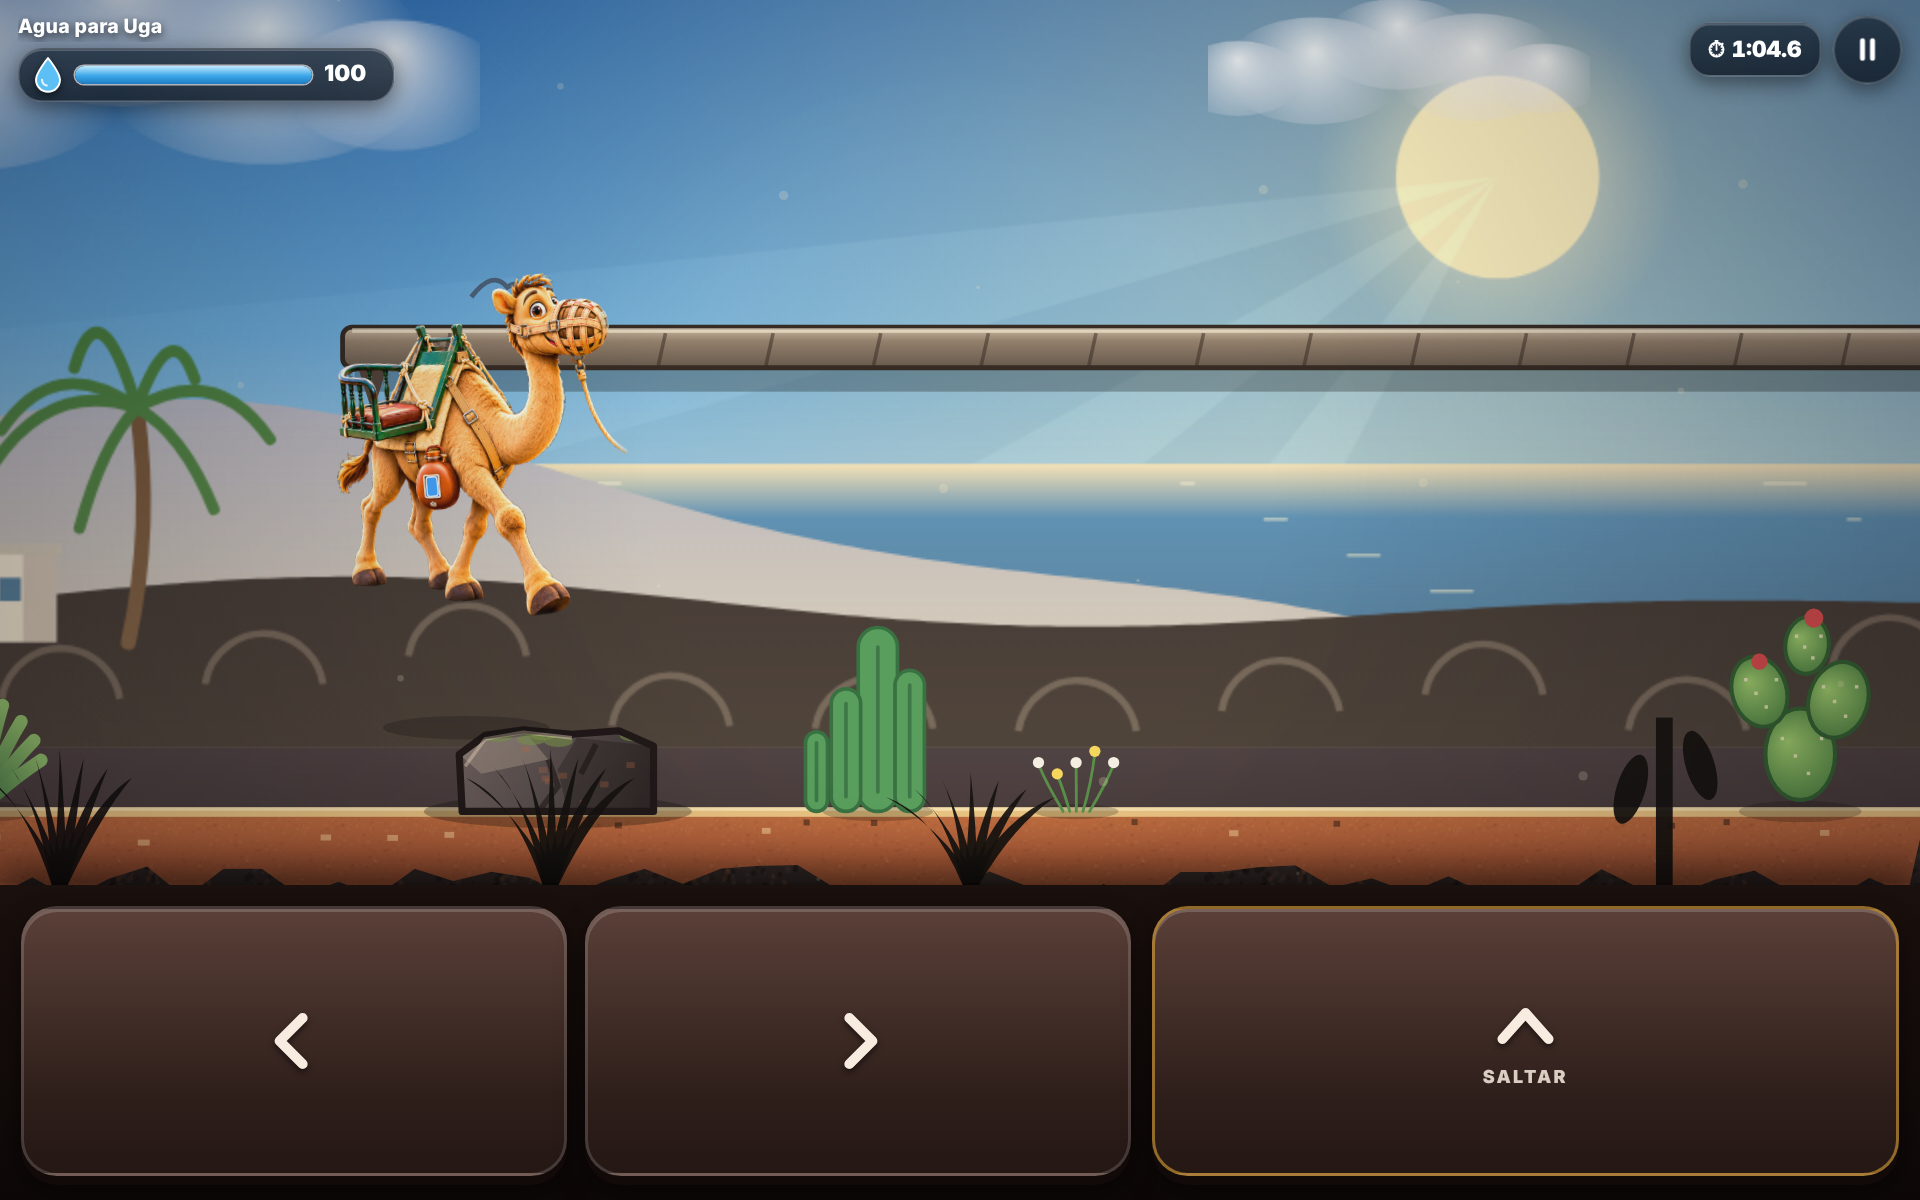
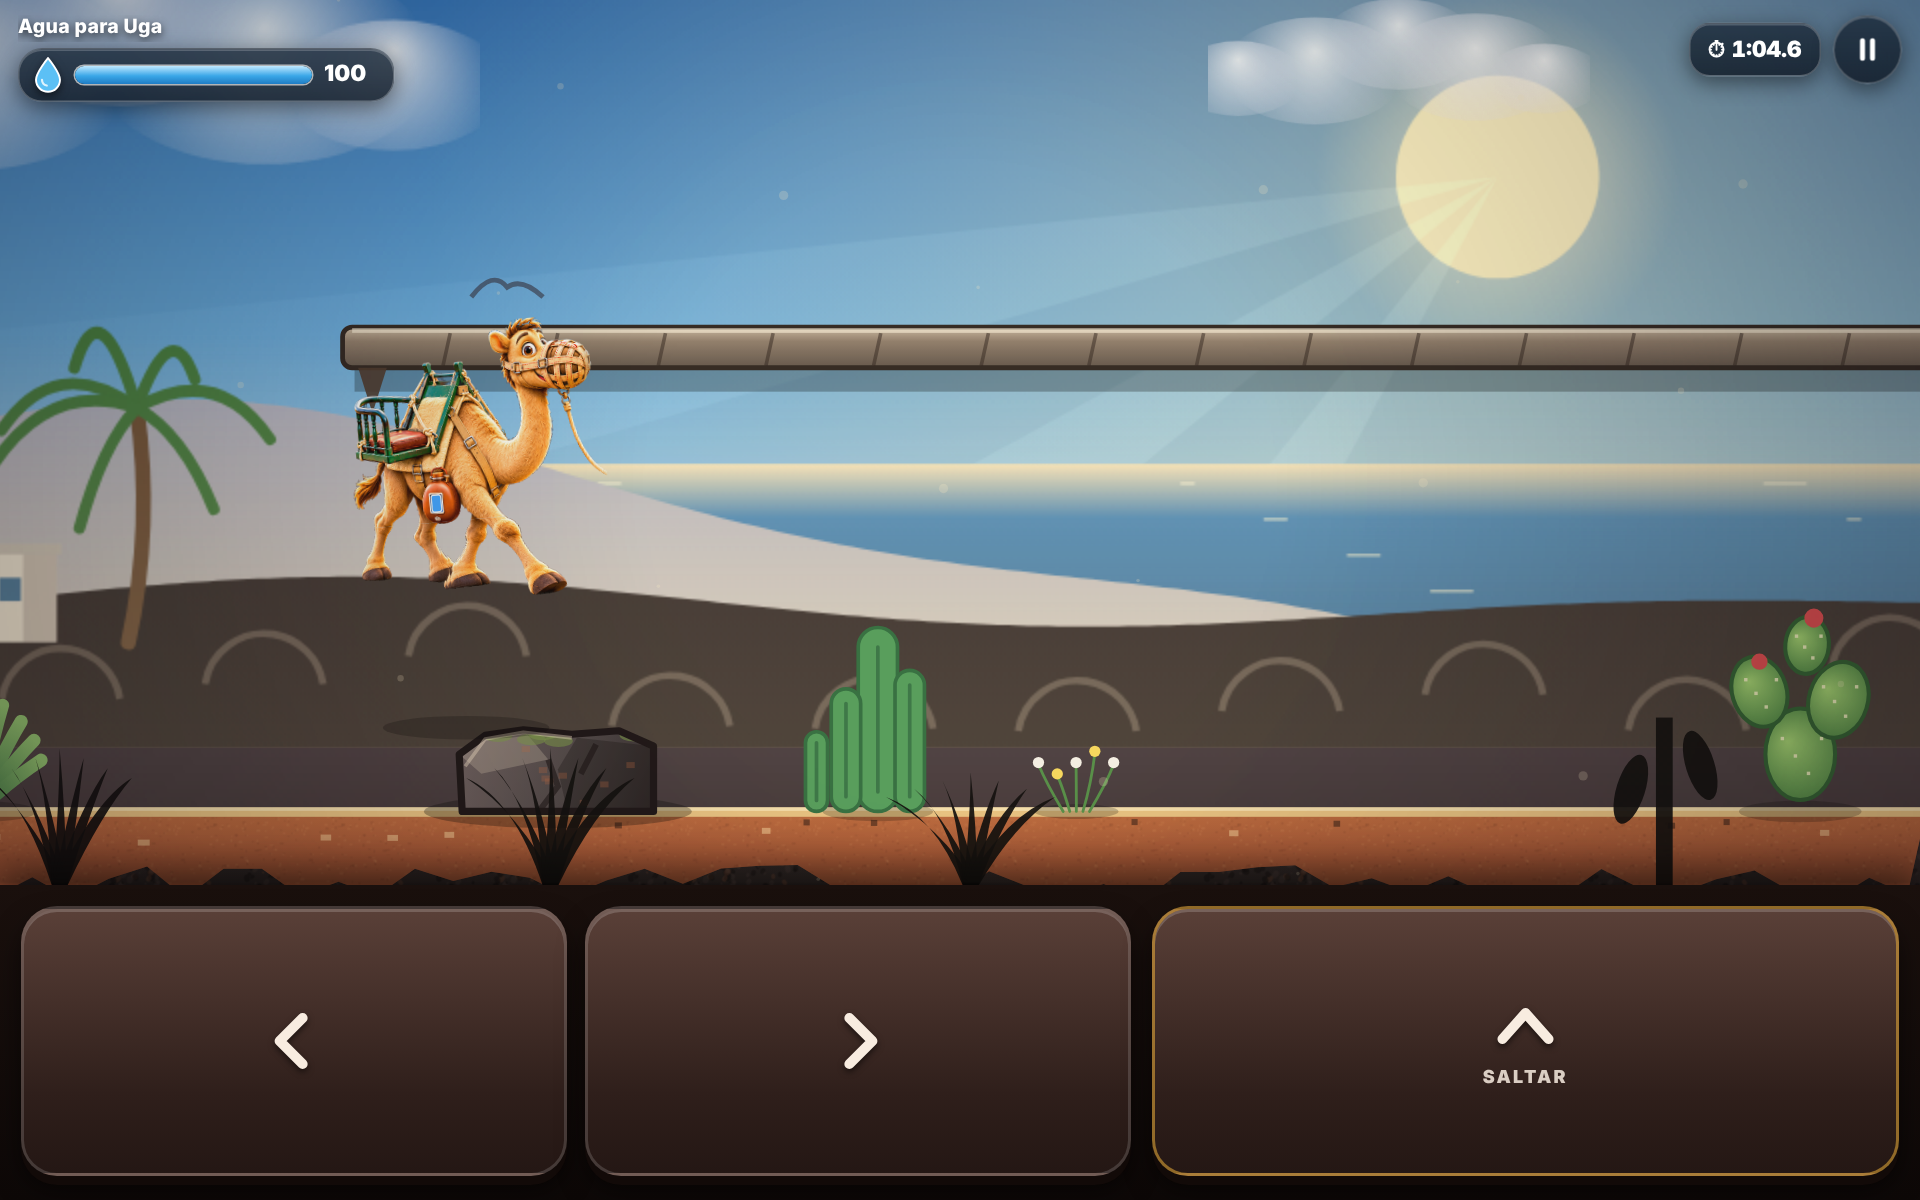
1.9.0: las patas de Martín se mueven al caminar, saltar y caer; tamaño más contenido
Claude-Session: https://claude.ai/code/session_01H2Jf8v1MHtV6zTpVoU4WWj

Changed region(s): [[0.1562, 0.2158, 0.3125, 0.5242]]

diff --git a/docs/app/dibujo.js b/docs/app/dibujo.js
@@ -163,7 +163,7 @@
   }
 
   /* Martín a partir de la ilustración (camello.png, 551×560, mirando a la derecha). Si aún no ha cargado, se usa el dibujo vectorial. */
-  const SPR = { img: null, ok: false, cache: {}, ax: 232, ay: 553, alto: 2.75, win: [184, 315, 19, 32] };
+  const SPR = { img: null, ok: false, cache: {}, ax: 232, ay: 553, alto: 2.4, win: [184, 315, 19, 32], cad: 366, cx0: 172, cx1: 236 };
   if (typeof Image !== 'undefined') { SPR.img = new Image(); SPR.img.onload = () => { SPR.ok = true; }; SPR.img.src = 'camello.png'; }
   function sprEscalado(hp) {
     const k = Math.max(16, Math.round(hp)); if (SPR.cache[k]) return SPR.cache[k];
@@ -189,7 +189,20 @@
     ctx.save(); ctx.globalAlpha = st.alpha == null ? 1 : st.alpha;
     ctx.translate(px, py + dy); if (st.dir < 0) ctx.scale(-1, 1);
     ctx.rotate(rot); ctx.scale(sx, sy);
-    ctx.drawImage(cv, -SPR.ax * s, -SPR.ay * s, cv.width, cv.height);
+    // cuerpo fijo y patas animadas: la franja de las patas se dibuja en columnas que se inclinan desde la cadera
+    const ox = -SPR.ax * s, oy = -SPR.ay * s, y0 = Math.round(SPR.cad * s), bh = cv.height - y0;
+    let Ah = 0, Af = 0, Lh = 0, Lf = 0;
+    if (anim === 'corre' || anim === 'gana') { const q = anim === 'gana' ? T * 9 : ph; Ah = Math.sin(q) * 30; Af = -Math.sin(q) * 34; Lh = Math.max(0, Math.cos(q)) * 0.12; Lf = Math.max(0, -Math.cos(q)) * 0.14; }
+    else if (anim === 'salta') { Ah = -14; Af = 26; Lh = 0.16; Lf = 0.2; }
+    else if (anim === 'cae') { Ah = -18; Af = 16; }
+    ctx.drawImage(cv, 0, 0, cv.width, y0, ox, oy, cv.width, y0);
+    const N = 60, cw = cv.width / N;
+    for (let i = 0; i < N; i++) {
+      const x0 = i * cw, xm = (x0 + cw / 2) / s, w = clamp((xm - SPR.cx0) / (SPR.cx1 - SPR.cx0), 0, 1), k = w * w * (3 - 2 * w);
+      const A = (Ah + (Af - Ah) * k) * s, Lz = Lh + (Lf - Lh) * k, e = (k > 0 && k < 1) ? cw * 1.6 : 0.8;
+      ctx.save(); ctx.translate(ox + x0, oy + y0); ctx.transform(1, 0, A / bh, 1 - Lz, 0, 0);
+      ctx.drawImage(cv, x0, y0, Math.min(cw + e, cv.width - x0), bh, 0, 0, Math.min(cw + e, cv.width - x0), bh); ctx.restore();
+    }
     // nivel de agua en la ventana de la cantimplora
     const [wx, wy, ww, wh] = SPR.win, X = (wx - SPR.ax) * s, Y = (wy - SPR.ay) * s, W = ww * s, H = wh * s, r = Math.min(W, H) * 0.25;
     ctx.fillStyle = '#0d2233'; rr(ctx, X, Y, W, H, r); ctx.fill();

diff --git a/www/dibujo.js b/www/dibujo.js
@@ -163,7 +163,7 @@
   }
 
   /* Martín a partir de la ilustración (camello.png, 551×560, mirando a la derecha). Si aún no ha cargado, se usa el dibujo vectorial. */
-  const SPR = { img: null, ok: false, cache: {}, ax: 232, ay: 553, alto: 2.75, win: [184, 315, 19, 32] };
+  const SPR = { img: null, ok: false, cache: {}, ax: 232, ay: 553, alto: 2.4, win: [184, 315, 19, 32], cad: 366, cx0: 172, cx1: 236 };
   if (typeof Image !== 'undefined') { SPR.img = new Image(); SPR.img.onload = () => { SPR.ok = true; }; SPR.img.src = 'camello.png'; }
   function sprEscalado(hp) {
     const k = Math.max(16, Math.round(hp)); if (SPR.cache[k]) return SPR.cache[k];
@@ -189,7 +189,20 @@
     ctx.save(); ctx.globalAlpha = st.alpha == null ? 1 : st.alpha;
     ctx.translate(px, py + dy); if (st.dir < 0) ctx.scale(-1, 1);
     ctx.rotate(rot); ctx.scale(sx, sy);
-    ctx.drawImage(cv, -SPR.ax * s, -SPR.ay * s, cv.width, cv.height);
+    // cuerpo fijo y patas animadas: la franja de las patas se dibuja en columnas que se inclinan desde la cadera
+    const ox = -SPR.ax * s, oy = -SPR.ay * s, y0 = Math.round(SPR.cad * s), bh = cv.height - y0;
+    let Ah = 0, Af = 0, Lh = 0, Lf = 0;
+    if (anim === 'corre' || anim === 'gana') { const q = anim === 'gana' ? T * 9 : ph; Ah = Math.sin(q) * 30; Af = -Math.sin(q) * 34; Lh = Math.max(0, Math.cos(q)) * 0.12; Lf = Math.max(0, -Math.cos(q)) * 0.14; }
+    else if (anim === 'salta') { Ah = -14; Af = 26; Lh = 0.16; Lf = 0.2; }
+    else if (anim === 'cae') { Ah = -18; Af = 16; }
+    ctx.drawImage(cv, 0, 0, cv.width, y0, ox, oy, cv.width, y0);
+    const N = 60, cw = cv.width / N;
+    for (let i = 0; i < N; i++) {
+      const x0 = i * cw, xm = (x0 + cw / 2) / s, w = clamp((xm - SPR.cx0) / (SPR.cx1 - SPR.cx0), 0, 1), k = w * w * (3 - 2 * w);
+      const A = (Ah + (Af - Ah) * k) * s, Lz = Lh + (Lf - Lh) * k, e = (k > 0 && k < 1) ? cw * 1.6 : 0.8;
+      ctx.save(); ctx.translate(ox + x0, oy + y0); ctx.transform(1, 0, A / bh, 1 - Lz, 0, 0);
+      ctx.drawImage(cv, x0, y0, Math.min(cw + e, cv.width - x0), bh, 0, 0, Math.min(cw + e, cv.width - x0), bh); ctx.restore();
+    }
     // nivel de agua en la ventana de la cantimplora
     const [wx, wy, ww, wh] = SPR.win, X = (wx - SPR.ax) * s, Y = (wy - SPR.ay) * s, W = ww * s, H = wh * s, r = Math.min(W, H) * 0.25;
     ctx.fillStyle = '#0d2233'; rr(ctx, X, Y, W, H, r); ctx.fill();

diff --git a/docs/app/sw.js b/docs/app/sw.js
@@ -1,7 +1,7 @@
 // Service worker: deja la versión web disponible sin conexión.
 // En la app Android no hace falta (los archivos ya van dentro del APK) y podría servir
 // una versión antigua tras actualizar, así que allí se da de baja solo.
-const CACHE = 'martin-v1.8.1';
+const CACHE = 'martin-v1.9.0';
 const ASSETS = ['./', 'index.html', 'martin.js', 'niveles.js', 'juego.js', 'dibujo.js', 'camello.png', 'manifest.webmanifest', 'icons/icon-192.png', 'icons/icon-512.png', 'icons/icon-maskable-512.png', 'icons/apple-touch-icon.png', 'i18n-en.js', 'i18n-fr.js', 'i18n-de.js', 'i18n-it.js', 'idioma.js', 'masjuegos.js', 'audio-suave.js', 'turno.js', 'contador.js', 'invitacion.js', 'publicas.js', 'juegos/ajedrez.png', 'juegos/chinchon.png', 'juegos/pumba.png', 'juegos/damas.png', 'juegos/parchis.png', 'juegos/poker.png', 'juegos/uno.png', 'juegos/martin.png'];
 const NATIVE = self.location.hostname === 'localhost' && self.location.protocol === 'https:';
 

diff --git a/www/sw.js b/www/sw.js
@@ -1,7 +1,7 @@
 // Service worker: deja la versión web disponible sin conexión.
 // En la app Android no hace falta (los archivos ya van dentro del APK) y podría servir
 // una versión antigua tras actualizar, así que allí se da de baja solo.
-const CACHE = 'martin-v1.8.1';
+const CACHE = 'martin-v1.9.0';
 const ASSETS = ['./', 'index.html', 'martin.js', 'niveles.js', 'juego.js', 'dibujo.js', 'camello.png', 'manifest.webmanifest', 'icons/icon-192.png', 'icons/icon-512.png', 'icons/icon-maskable-512.png', 'icons/apple-touch-icon.png', 'i18n-en.js', 'i18n-fr.js', 'i18n-de.js', 'i18n-it.js', 'idioma.js', 'masjuegos.js', 'audio-suave.js', 'turno.js', 'contador.js', 'invitacion.js', 'publicas.js', 'juegos/ajedrez.png', 'juegos/chinchon.png', 'juegos/pumba.png', 'juegos/damas.png', 'juegos/parchis.png', 'juegos/poker.png', 'juegos/uno.png', 'juegos/martin.png'];
 const NATIVE = self.location.hostname === 'localhost' && self.location.protocol === 'https:';
 

diff --git a/docs/app/juego.js b/docs/app/juego.js
@@ -155,7 +155,7 @@ function ajustaCanvas() {
   const r = cv.parentNode.getBoundingClientRect(), dpr = Math.min(window.devicePixelRatio || 1, 2.5);
   const w = Math.max(160, Math.round(r.width * dpr)), h = Math.max(120, Math.round(r.height * dpr));
   if (cv.width !== w || cv.height !== h) { cv.width = w; cv.height = h; }
-  const asp = w / h, vw = asp >= 1.4 ? 15 : Math.max(asp < 1 ? 7.6 : 10, 15 - (1.4 - asp) * 12);   // cámara cercana: Martín se ve grande; en vertical, aún más
+  const asp = w / h, vw = asp >= 1.4 ? 15 : Math.max(asp < 1 ? 9 : 10, 15 - (1.4 - asp) * 12);   // cámara cercana: Martín se ve grande; en vertical, aún más
   RUN.u = Math.min(w / vw, h / 7.4);
 }
 function dibujar(dt) {

diff --git a/www/juego.js b/www/juego.js
@@ -155,7 +155,7 @@ function ajustaCanvas() {
   const r = cv.parentNode.getBoundingClientRect(), dpr = Math.min(window.devicePixelRatio || 1, 2.5);
   const w = Math.max(160, Math.round(r.width * dpr)), h = Math.max(120, Math.round(r.height * dpr));
   if (cv.width !== w || cv.height !== h) { cv.width = w; cv.height = h; }
-  const asp = w / h, vw = asp >= 1.4 ? 15 : Math.max(asp < 1 ? 7.6 : 10, 15 - (1.4 - asp) * 12);   // cámara cercana: Martín se ve grande; en vertical, aún más
+  const asp = w / h, vw = asp >= 1.4 ? 15 : Math.max(asp < 1 ? 9 : 10, 15 - (1.4 - asp) * 12);   // cámara cercana: Martín se ve grande; en vertical, aún más
   RUN.u = Math.min(w / vw, h / 7.4);
 }
 function dibujar(dt) {

diff --git a/docs/app/index.html b/docs/app/index.html
@@ -406,7 +406,7 @@ function openThemes() {
   AvisoTurno.enlazar();
 }
 
-const APP_VERSION = '1.8.1';
+const APP_VERSION = '1.9.0';
 const REPO = 'csuarezsm/Martin';
 const MAX_ARCHIVE = 500;
 const uid = () => Math.random().toString(36).slice(2, 10);

diff --git a/www/index.html b/www/index.html
@@ -406,7 +406,7 @@ function openThemes() {
   AvisoTurno.enlazar();
 }
 
-const APP_VERSION = '1.8.1';
+const APP_VERSION = '1.9.0';
 const REPO = 'csuarezsm/Martin';
 const MAX_ARCHIVE = 500;
 const uid = () => Math.random().toString(36).slice(2, 10);

diff --git a/README.md b/README.md
@@ -2,7 +2,7 @@
 
 Un camello canario joven de Uga lleva el agua por los caminos que dejó la tormenta: lava, rocas, huecos y bajadas. **6 niveles de plataformas** con tres estrellas cada uno, a veces con dos caminos (uno rápido y arriesgado, otro lento y seguro), y un **reto diario** igual para todos con ranking.
 Para Android e iPhone. Gratis, sin anuncios y sin cuentas. App Capacitor + web (`www/`). Todo se guarda en el móvil; solo el reto diario usa el servidor de juegos (nombre y pulsaciones, para comprobar el tiempo).
-Paquete: `com.itcanarias.martin` · versión 1.8.1
+Paquete: `com.itcanarias.martin` · versión 1.9.0
 
 **iPhone y navegadores**: la misma app se publica como versión web instalable en https://csuarezsm.github.io/Martin/app/ (GitHub Pages, carpeta `docs/app`, copia de `www/`). En Safari: Compartir → «Añadir a pantalla de inicio». Tras cambiar `www/`, ejecuta `npm run web`.
 
